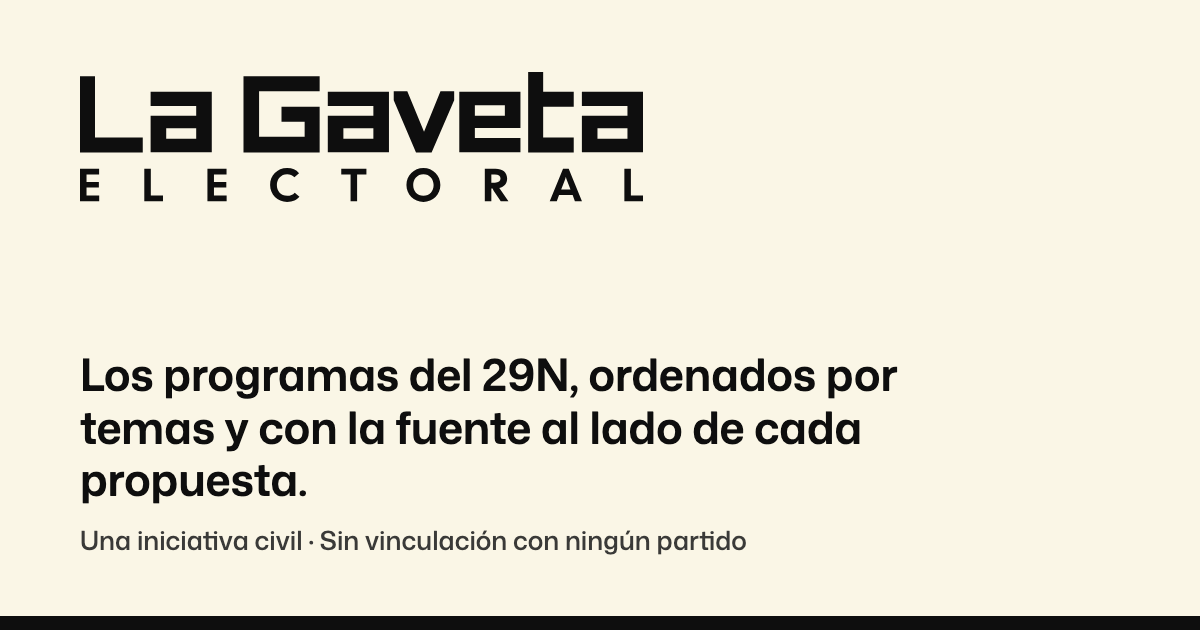
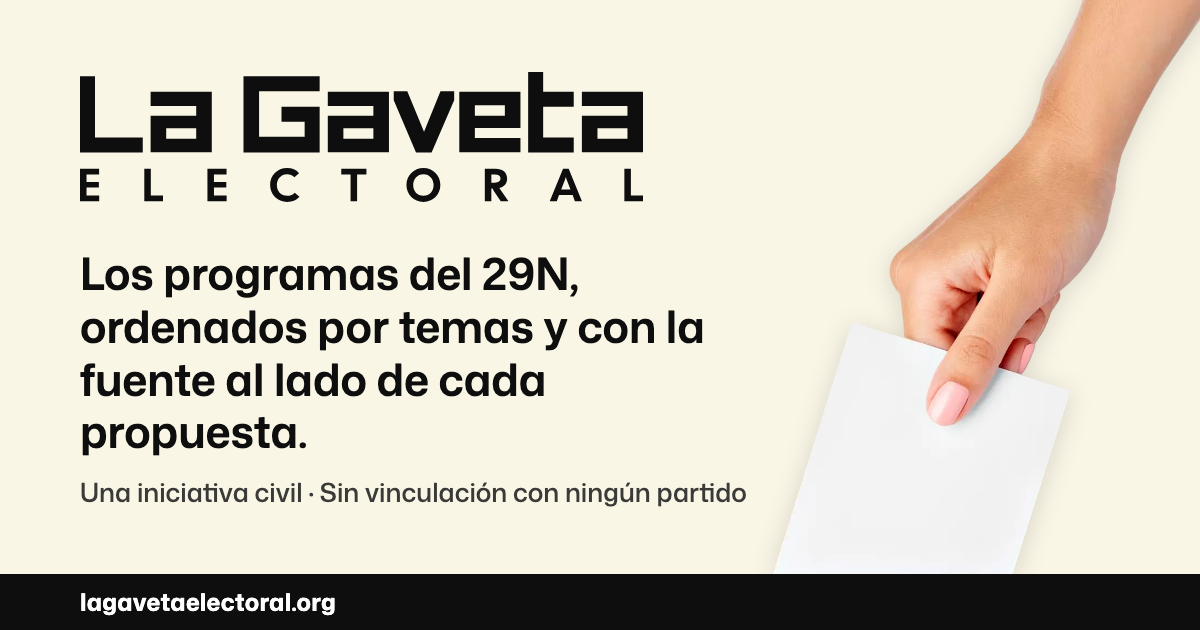
Dominio lagavetaelectoral.org, texto blanco sobre el color de los partidos e imagen para compartir
- Dirección del sitio: https://lagavetaelectoral.org (astro.config, sitemap y robots).
- Texto en blanco sobre el color de todos los partidos (colorTexto: "blanco" en los 9),
  en lugar de reglas sueltas en el CSS.
- og.png con la mano y la papeleta y el dominio en la franja inferior.

diff --git a/src/styles/global.css b/src/styles/global.css
@@ -273,8 +273,7 @@ a:hover .arrow, button:hover .arrow { transform: translateX(4px) }
 @keyframes entra { from { opacity: 0; transform: translateY(18px) } }
 .col:hover { transform: translateY(-4px) }
 .col .top { padding: clamp(16px, 1.6cqi, 28px); flex: 1; display: flex; flex-direction: column; gap: 10px }
-/* El nombre del partido va siempre en blanco, como en la ficha (decisión de diseño). */
-.col .nm { font-family: var(--cond); font-weight: 900; font-size: clamp(2.125rem, 3.6cqi, 4rem); line-height: .88; text-transform: uppercase; overflow-wrap: anywhere; color: #fff }
+.col .nm { font-family: var(--cond); font-weight: 900; font-size: clamp(2.125rem, 3.6cqi, 4rem); line-height: .88; text-transform: uppercase; overflow-wrap: anywhere }
 .col .cd { font-size: .9375rem; font-weight: 550; opacity: .92 }
 /* Partido con programa publicado: etiqueta blanca en la parte de color. */
 /* Pegada a la caja blanca de abajo: mismo margen con los bordes (4px) y mismo ancho. */
@@ -360,8 +359,7 @@ p .fuera { margin: 0; vertical-align: 1px }
 /* Enlaces en contexto de partido: texto negro (contraste) y subrayado de su color, más grueso al pasar el ratón. */
 :is(.fic-r, .ar .what, .vp, .foco-b) a { text-decoration-color: var(--pc) }
 :is(.fic-r, .ar .what, .vp, .foco-b) a:hover { text-decoration-thickness: 3px }
-/* En la ficha, el texto sobre el color del partido va siempre en blanco (decisión de diseño). */
-.fic-l { background: var(--pc); color: #fff; position: relative }
+.fic-l { background: var(--pc); color: var(--pt); position: relative }
 .fic-l .in { position: sticky; top: var(--hdr-h); padding: var(--sec-s) clamp(24px, 3cqi, 64px); display: flex; flex-direction: column; gap: clamp(28px, 2.6cqi, 44px) }
 /* Nombre y datos del partido, juntos como un bloque. */
 .fid { display: grid; gap: 6px }
@@ -399,7 +397,7 @@ p .fuera { margin: 0; vertical-align: 1px }
 .ftabs { display: flex; gap: 8px; overflow-x: auto; overflow-y: hidden; scrollbar-width: none; position: sticky; top: var(--hdr-h); z-index: 3; background: #fff; margin: 0 calc(-1 * var(--pr)) clamp(28px, 3cqi, 48px) calc(-1 * var(--pl)); padding: 14px var(--pr) 14px var(--pl); border-bottom: 1px solid var(--hair) }
 .ftabs > * { flex: none; display: flex; gap: 8px; align-items: center; height: var(--h-ctl); padding: 0 16px; border-radius: 999px; background: var(--bg2); color: var(--ink); font-weight: 600; font-size: .9375rem; white-space: nowrap; text-decoration: none; transition: background-color .15s }
 .ftabs a:hover { background: var(--bg3) }
-.ftabs a[aria-current] { background: var(--pc); color: #fff }
+.ftabs a[aria-current] { background: var(--pc); color: var(--pt) }
 .ftabs .c { font-size: .8125rem; font-weight: 500; color: var(--mute) }
 .ftabs a[aria-current] .c { color: inherit; opacity: .85 }
 .ftabs .dis { background: transparent; outline: 1.5px dashed var(--nc); outline-offset: -1.5px; color: var(--mute); font-weight: 500; pointer-events: none }
@@ -810,7 +808,7 @@ p .fuera { margin: 0; vertical-align: 1px }
 /* ============================================================
    UN PARTIDO, UN TEMA (/partidos/<partido>/<tema>/)
    ============================================================ */
-.foco-h { background: var(--pc); color: #fff; padding-block: var(--sec-s) clamp(28px, 3cqi, 48px); display: grid; gap: clamp(14px, 1.4cqi, 22px) }
+.foco-h { background: var(--pc); color: var(--pt); padding-block: var(--sec-s) clamp(28px, 3cqi, 48px); display: grid; gap: clamp(14px, 1.4cqi, 22px) }
 .foco-h .crumbs a { color: inherit }
 .foco-t { display: grid; gap: .1em; margin: 0; text-transform: uppercase; overflow-wrap: anywhere }
 .foco-n { font-size: clamp(3.5rem, 7cqi, 8.75rem); line-height: .82 }
@@ -891,6 +889,3 @@ p .fuera { margin: 0; vertical-align: 1px }
 }
 .tema-ver { margin-left: auto; font-family: var(--sans); font-stretch: 100%; font-size: .9062rem; font-weight: 500; color: inherit; text-underline-offset: 4px }
 .tema-ver:hover { text-decoration-thickness: 2px }
-
-/* Nombres y siglas de partido sobre su color: siempre en blanco (decisión de diseño, igual que en tarjetas y ficha). */
-.map .ph .nm, .map .ph .mo, .ar .who b, .vt-votos li > b, .oth a, .ptg button, .mq-logo.fb em { color: #fff }

diff --git a/src/content.config.ts b/src/content.config.ts
@@ -22,7 +22,7 @@ const partidos = defineCollection({
     nombreCompleto: z.string().optional(),
     siglas: z.string().max(5),
     color: z.string().regex(/^#[0-9A-F]{6}$/i),
-    colorTexto: z.enum(['blanco', 'tinta']), // el que dé más contraste sobre `color` (mínimo 4,5:1)
+    colorTexto: z.enum(['blanco', 'tinta']), // decisión de diseño (nov 2026): blanco en todos, aunque en colores claros el contraste baje de 4,5:1
     colorOrigen: z.object({ fuente: z.string(), verificado: z.boolean() }),
     // url: dónde se obtuvo; archivo: copia local optimizada que usa la web (sin peticiones a terceros)
     logo: z.object({ url: z.url(), archivo: z.string().regex(/^\/img\/partidos\/[a-z0-9-]+\.(svg|webp)$/), origen: z.string() }).optional(),
